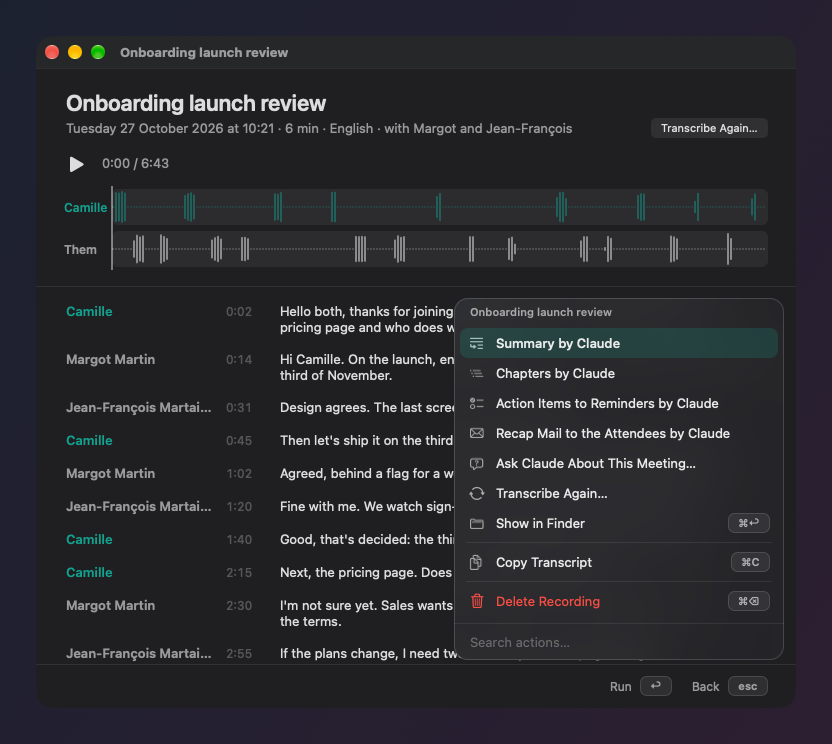
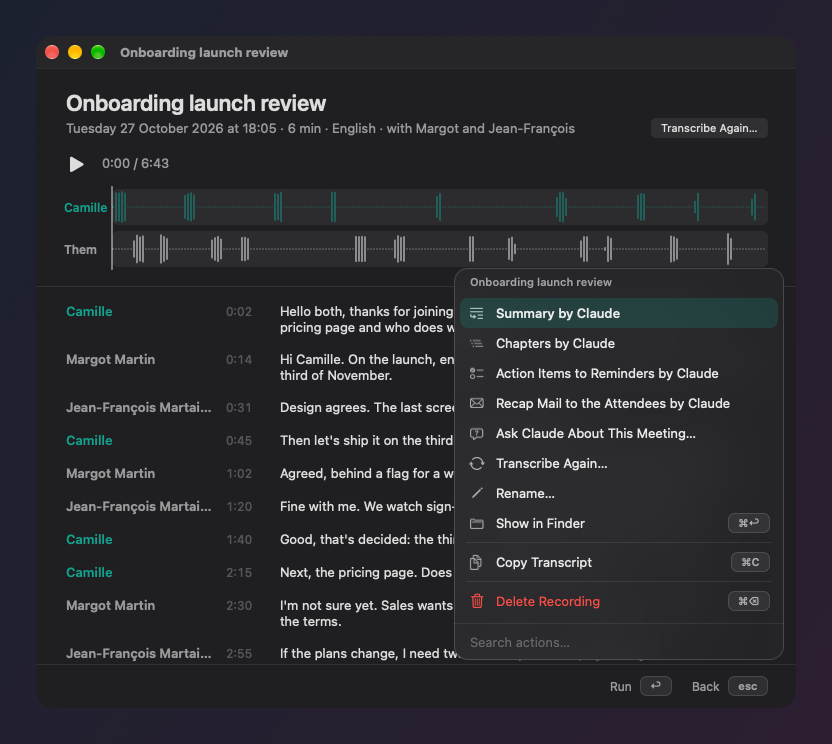
Recorder: the window's ⌘K in the meetings guide, with Rename…
recorder-actions, light and dark, from the guides self-test on the test
Mac (857d1e6, 22 of 22).

diff --git a/website/guides/meetings.md b/website/guides/meetings.md
@@ -84,7 +84,7 @@ Them 1, Them 2…, until you name them).
   showing how it went. The one picked to run after each transcript is
   said in the window: when it ran, and its last line.
 
-![A recording's ⌘K: Summary, Chapters, Action Items to Reminders, Recap Mail to the Attendees and Ask About This Meeting by Claude, then Transcribe Again, Show in Finder, Copy Transcript and Delete Recording](images/recorder-actions.png "Your SI's actions first, sent only when you pick one.")
+![A recording's ⌘K: Summary, Chapters, Action Items to Reminders, Recap Mail to the Attendees and Ask About This Meeting by Claude, then Transcribe Again, Rename, Show in Finder, Copy Transcript and Delete Recording](images/recorder-actions.png "Your SI's actions first, sent only when you pick one.")
 
 **Better transcription**: Settings → Recorder offers a 1.6 GB download
 (whisper large-v3-turbo) that runs on your Mac: about 40% fewer errors
